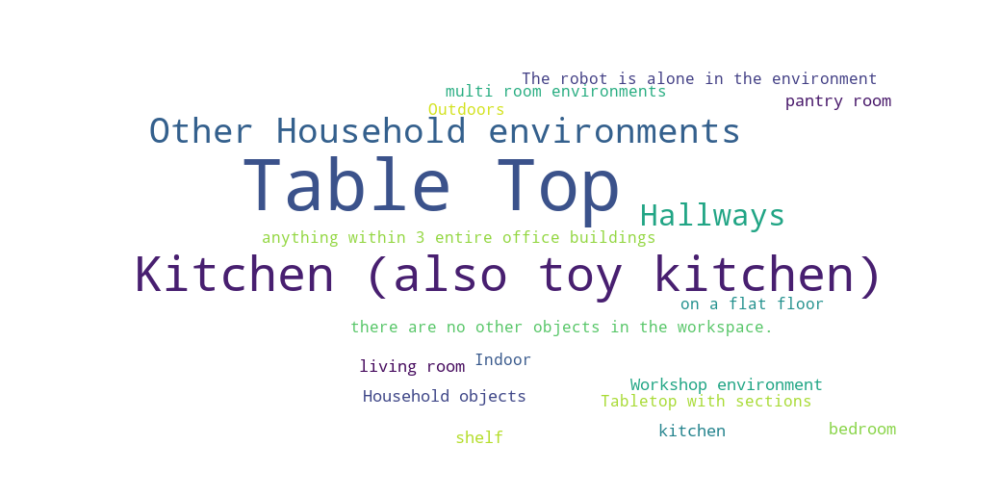
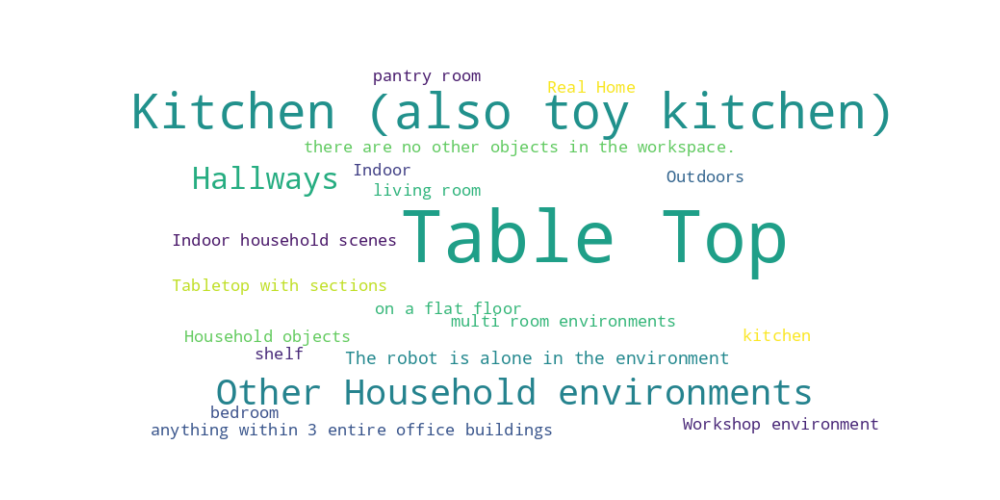
render readme

Changed region(s): [[0.124, 0.12, 0.899, 0.81], [0.155, 0.75, 0.558, 0.9], [0.651, 0.84, 0.899, 0.87]]

diff --git a/README.md b/README.md
@@ -14,8 +14,8 @@
 
 
 > [!NOTE]
-> - Total datasets: 72
-> - Latest Update:  2025-06-10
+> - Total datasets: 74
+> - Latest Update:  2026-10-18
 
 
 # Contents
@@ -60,6 +60,16 @@
 
 
 ## <a name="a"></a>A
+
+### <a name="acttrace_ego-home" href="./datasets/ActTrace_Ego-Home">ActTrace Ego-Home</a>
+
+[![License: CC BY-NC 4.0](https://img.shields.io/badge/License-CC_BY--NC_4.0-lightgrey.svg)](https://creativecommons.org/licenses/by-nc/4.0/)
+
+Homepage: <a href="https://huggingface.co/datasets/ActTrace/acttrace-ego-home" target="_blank">https://huggingface.co/datasets/ActTrace/acttrace-ego-home</a>
+
+Egocentric household-manipulation dataset recorded with a head-mounted iPhone in real Chinese homes: metric LiDAR depth, 100 Hz IMU, metric 3D hand trajectories lifted through calibrated extrinsics, and 6-DoF head trajectories cross-validated against the IMU (shipping bar r >= 0.97; v0.2 ships 13/13 episodes at r = 0.971-0.995; failing trajectories are not released).
+
+Task: A human demonstrator wearing a head-mounted iPhone performs real household manipulation tasks in real homes: washing cups and dishes, folding laundry and T-shirts, cutting fruit, beating eggs, boiling and pouring water, unpacking parcels, changing trash bags, and clearing the table after a meal. Every episode ships with verbatim human narration plus a machine-generated imperative instruction (provenance disclosed) and human-confirmed action segments with handedness.
 
 ### <a name="austin_buds" href="./datasets/Austin_BUDS">Austin BUDS</a>
 
@@ -332,6 +342,16 @@ DROID offers 76,000 real-world robot trajectories across 564 scenes and 86 tasks
 Task: Various household manipulation tasks
 
 ## <a name="e"></a>E
+
+### <a name="embodiedmemorybench" href="./datasets/EmbodiedMemoryBench">EmbodiedMemoryBench</a>
+
+[![License: CC BY-NC 4.0](https://img.shields.io/badge/License-CC_BY--NC_4.0-lightgrey.svg)](https://creativecommons.org/licenses/by-nc/4.0/)
+
+Homepage: <a href="https://zju-omniai.github.io/Embodied-Omni/EmbodiedMemoryBench/" target="_blank">https://zju-omniai.github.io/Embodied-Omni/EmbodiedMemoryBench/</a>
+
+2,554 simulated episodes for evaluating memory-dependent embodied actions.
+
+Task: Build and update memory from observation and interaction histories, then execute later tasks testing visual recall, dynamic state tracking, interaction outcomes, and experience generalization.
 
 ### <a name="eth_agent_affordances" href="./datasets/ETH_Agent_Affordances">ETH Agent Affordances</a>
 
